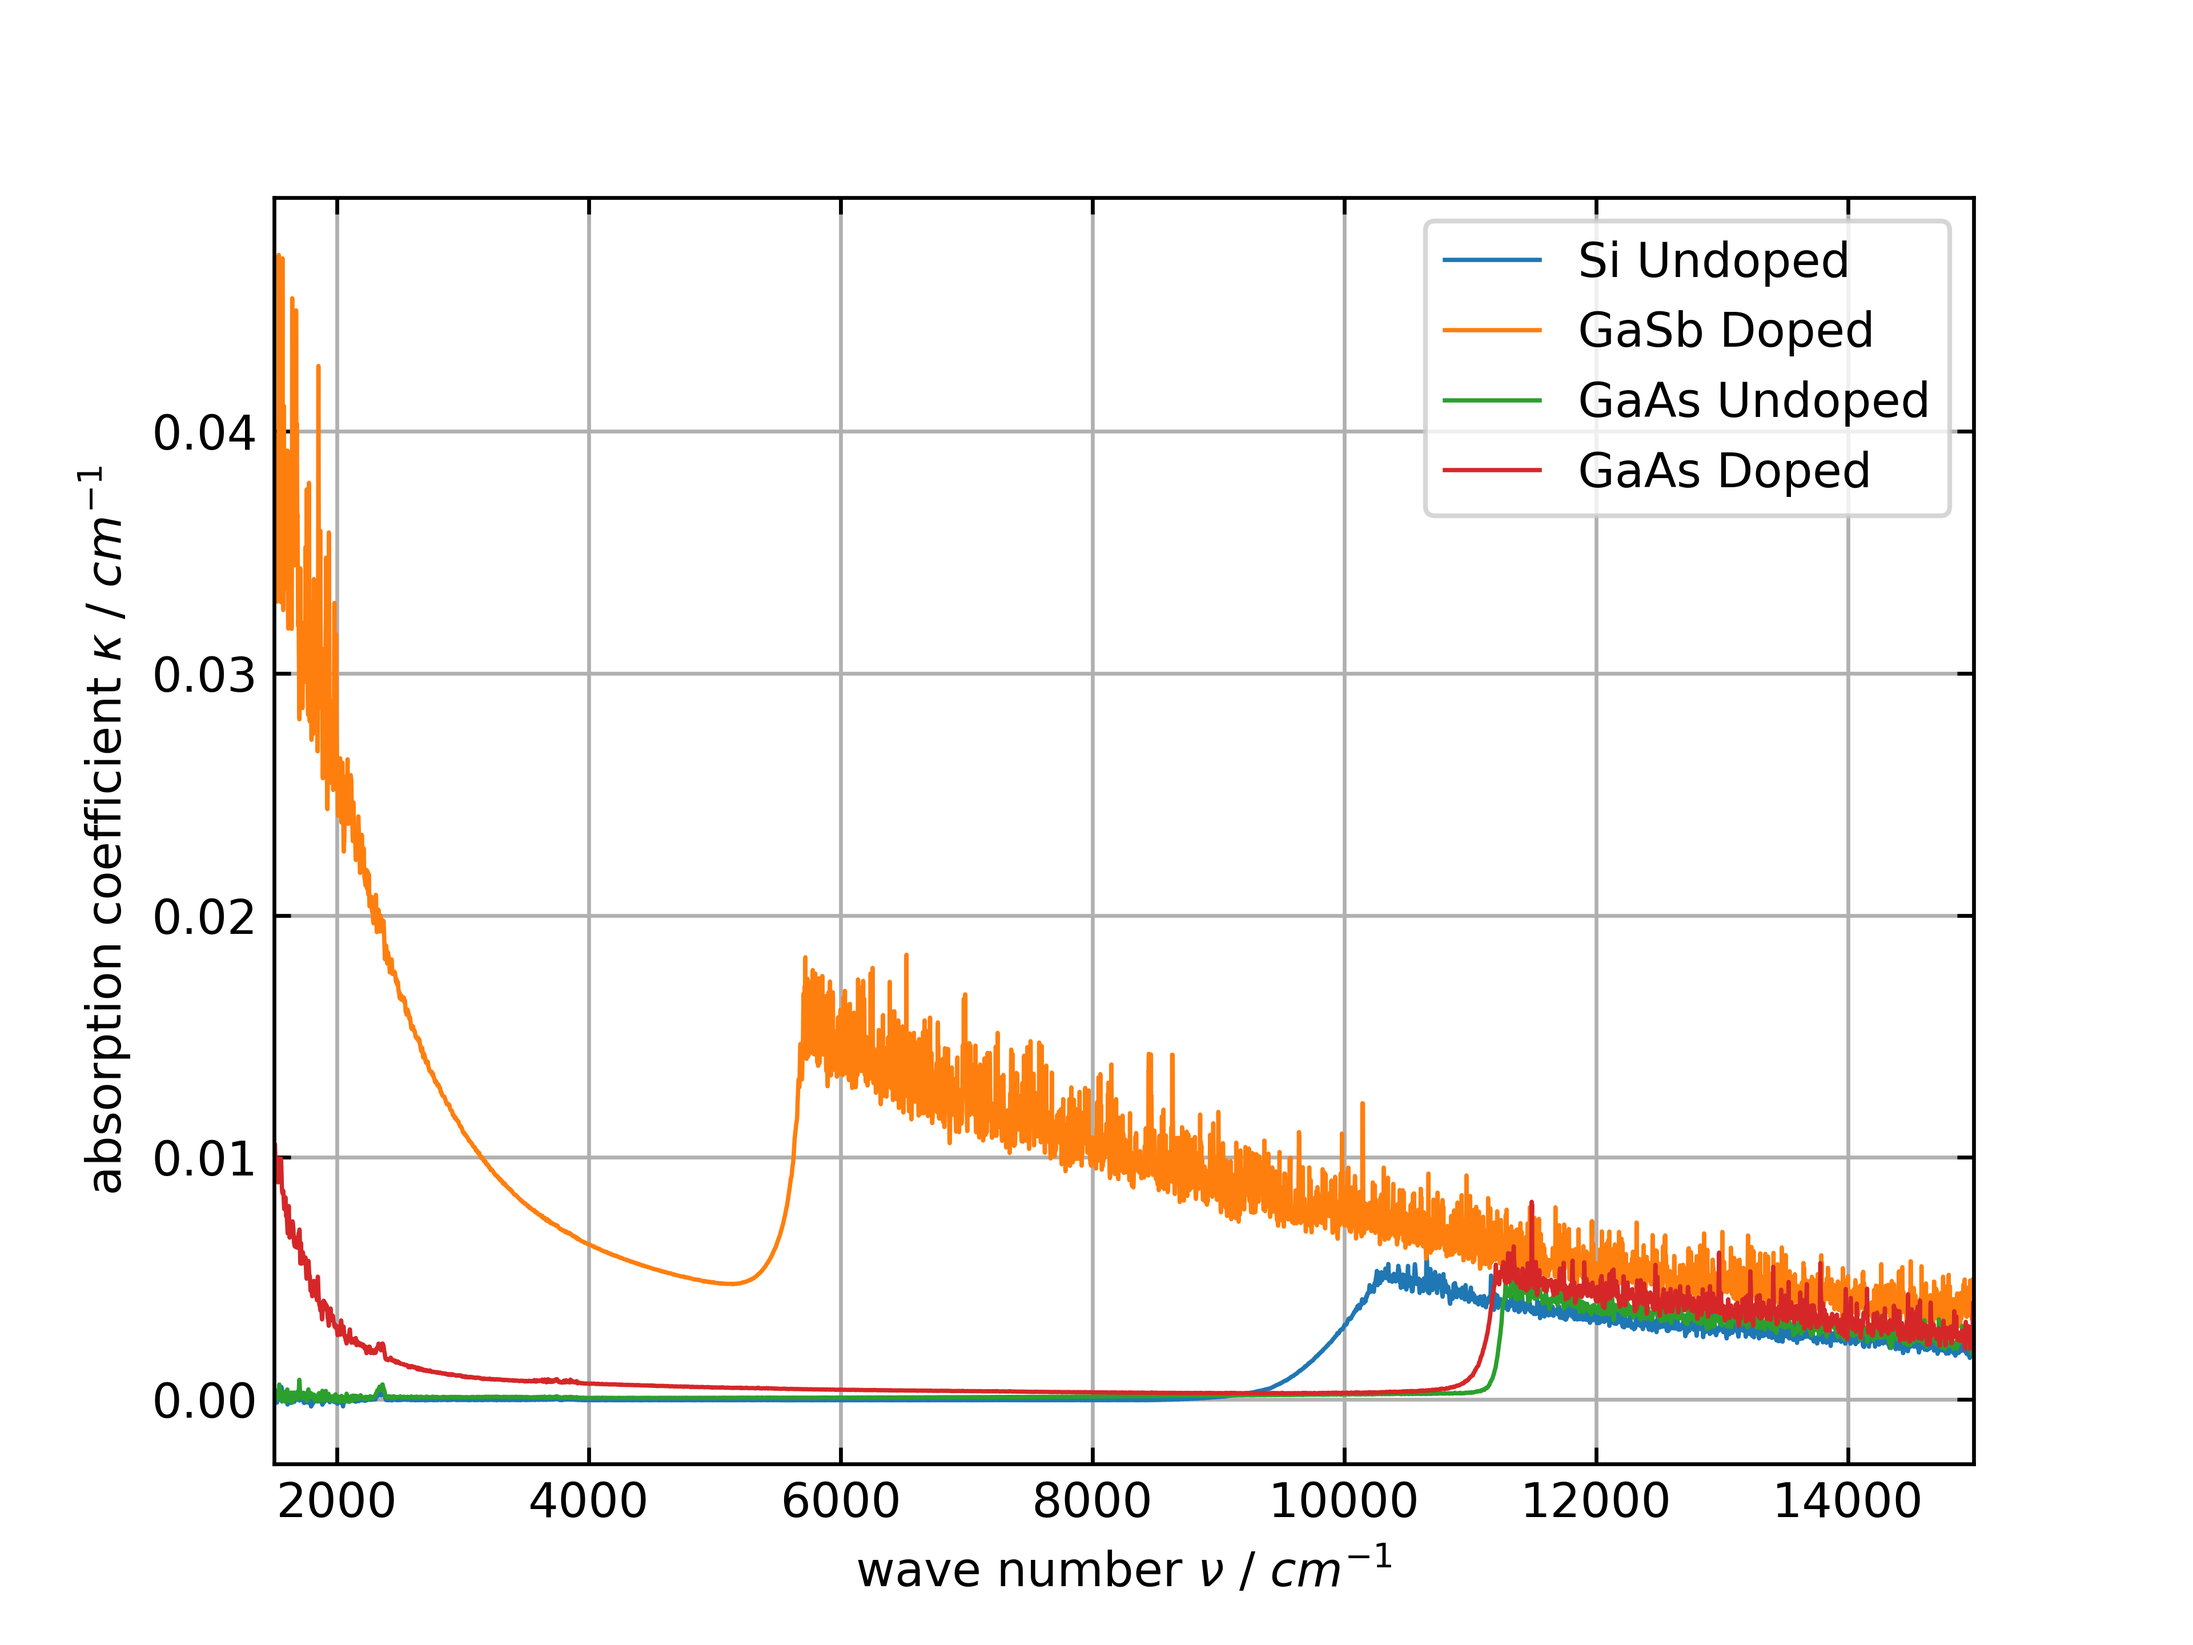
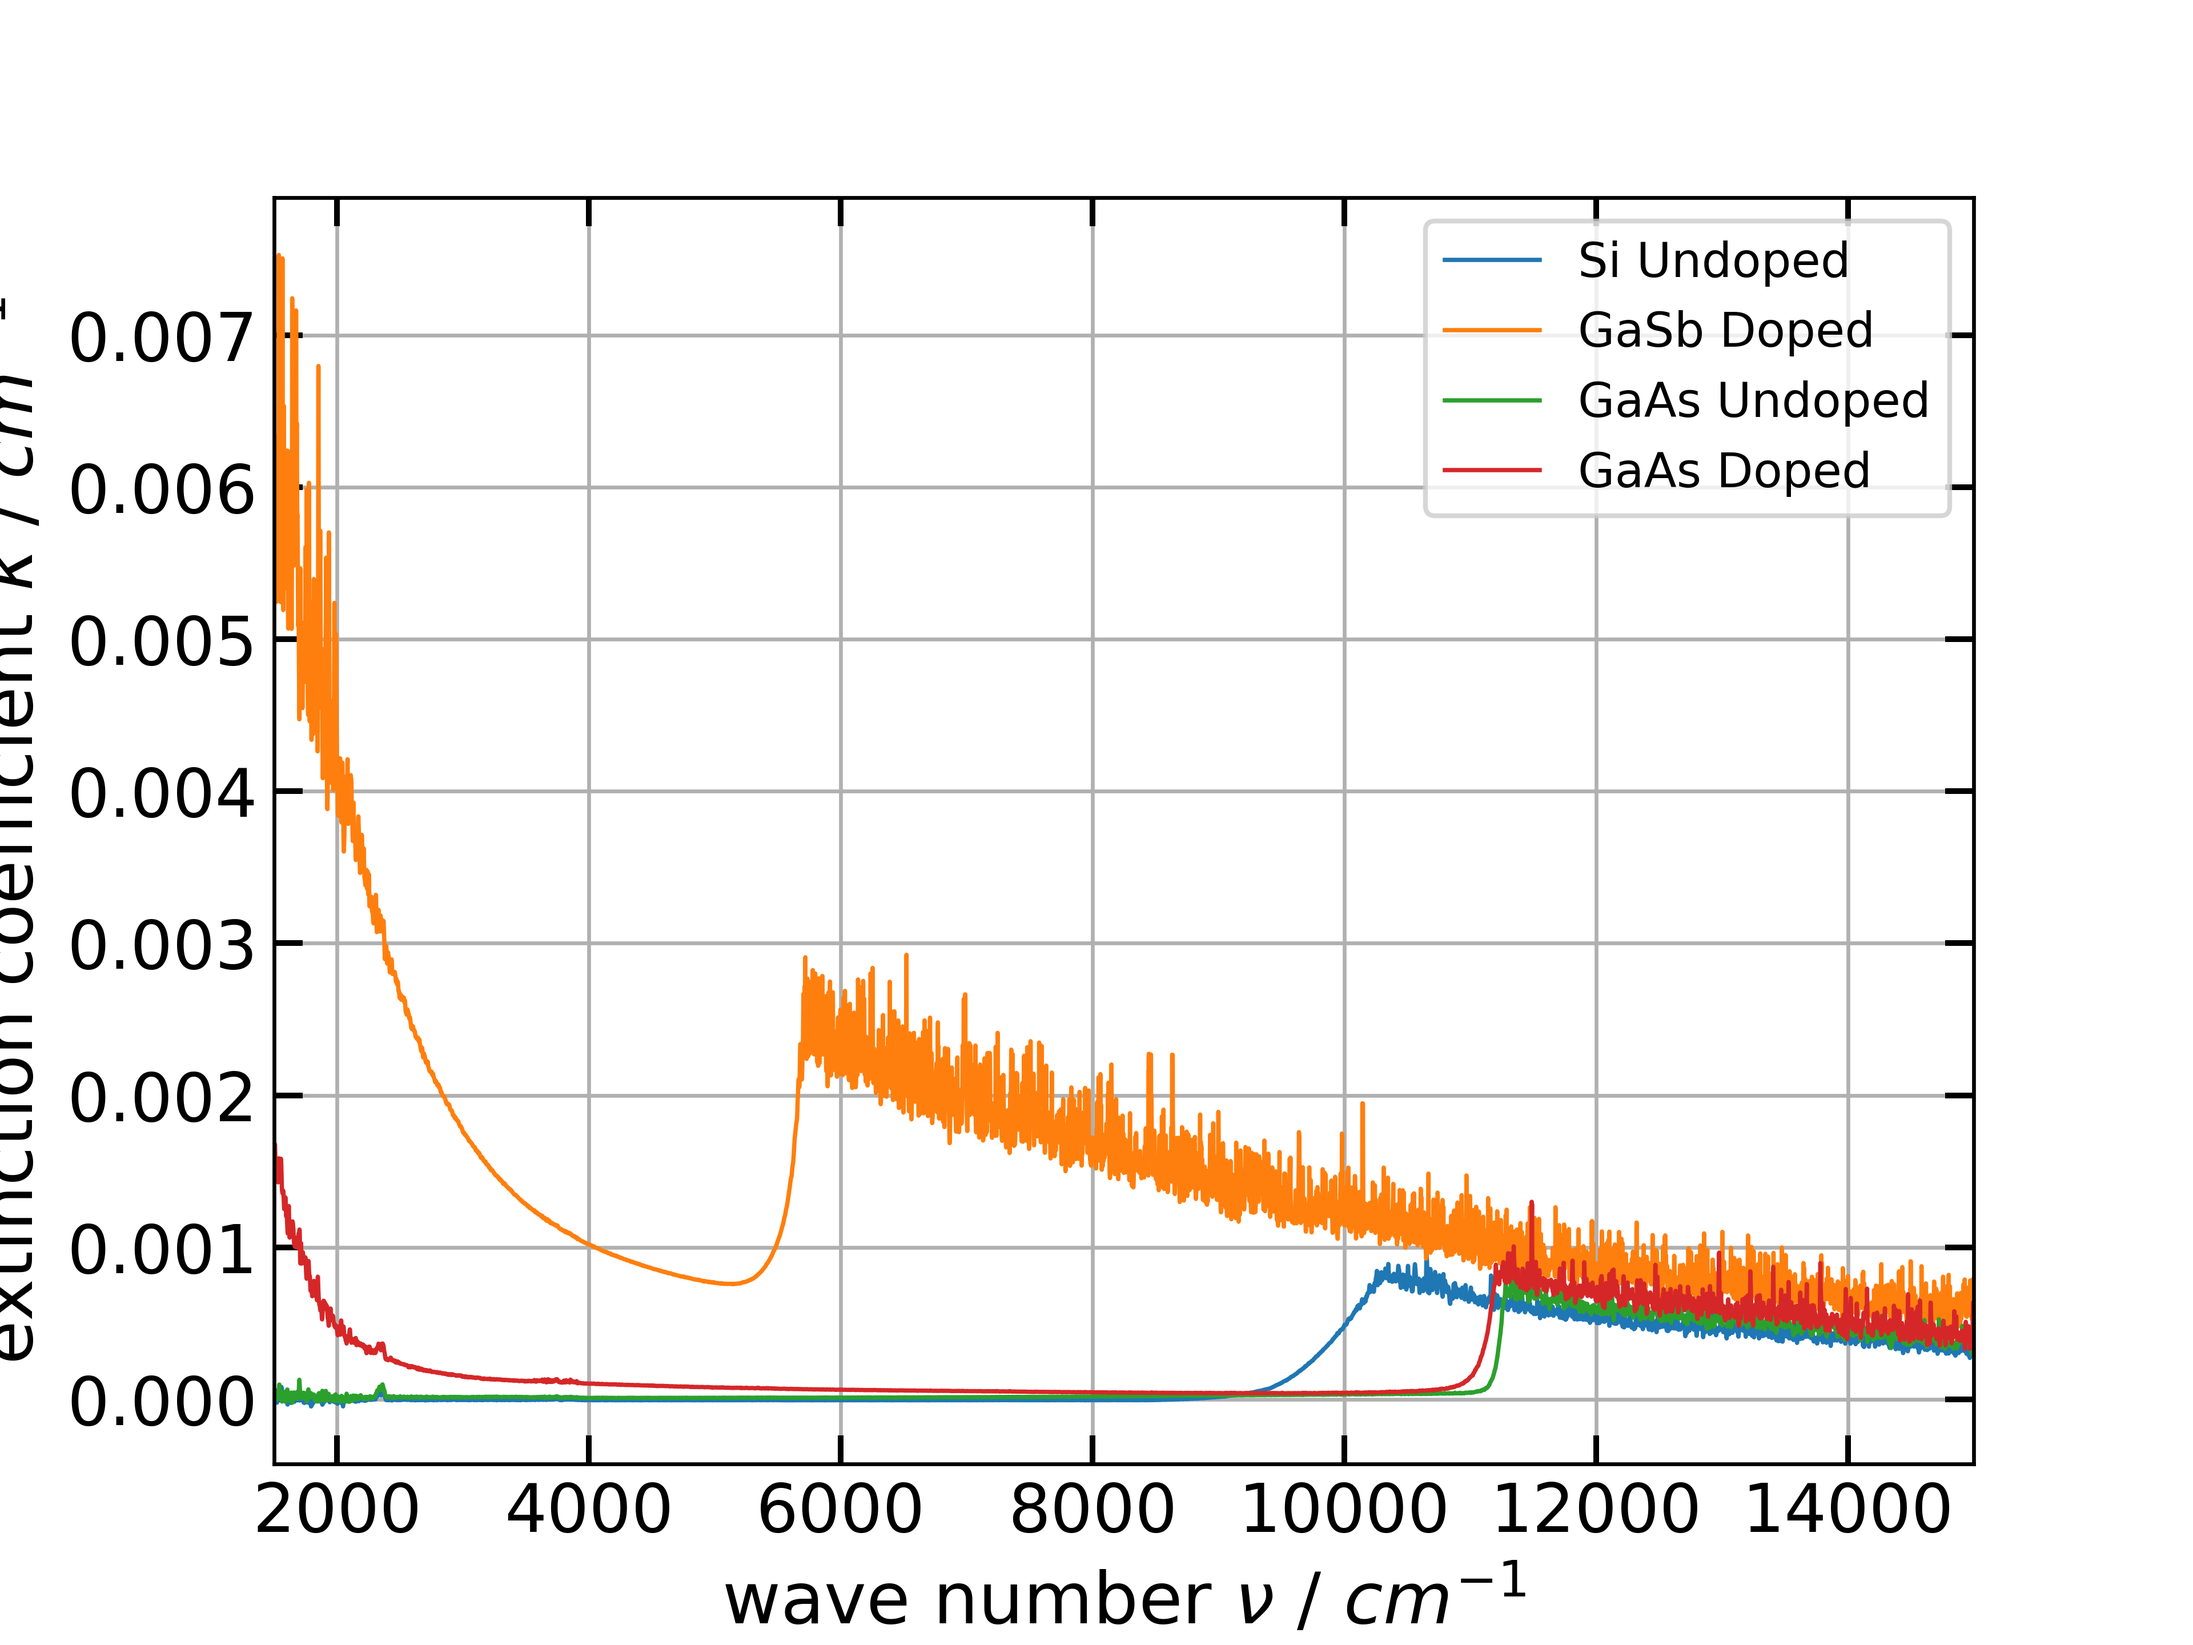
fehlersuche

diff --git a/SolidStateOptics/exp4.py b/SolidStateOptics/exp4.py
@@ -20,10 +20,12 @@ c= const.c  # Speed of light in m/s
 #moch willkürliche Werte
 mu_GaAs = 0.036872 * const.m_e  # Effective mass of electron in GaAs (müssen quelle finden!!)
 mu_GaSb = 0.0053207 * const.m_e
+mu_GaSb_Lukas = 0.037188208 * const.m_e
 m_e = const.m_e  # Electron mass in kg
 
-factor_GaAs = e**4*8/(epsilon_0**2*m_e**4*c**3*h**5) * mu_GaAs**3
-factor_GaAs = e**4*8/(epsilon_0**2*m_e**4*c**3*h**5) * mu_GaSb**3
+factor_GaAs = e**4*8/(epsilon_0**2*m_e**4*c**3*h**5) * mu_GaAs**3 * (2*np.pi*c)**4
+factor_GaAs_Altprot = e**2/(epsilon_0**m_e**2*h**5) * (2*mu_GaAs)**(3/2)
+factor_GaSb = e**4*8/(epsilon_0**2*m_e**4*c**3*h**5) * mu_GaSb**3 * (2*np.pi*c)**4
 
 
 
@@ -78,11 +80,11 @@ def calculate_nu_beta_and_R(ReflectionData, TransmissionData, d):
 
 
 def calculate_kappa(ReflectionData, TransmissionData, d):
-    k_beta_R_List = calculate_nu_beta_and_R(ReflectionData, TransmissionData, d)
-    k_kappa_R_List = []
-    for i in k_beta_R_List:
-        k_kappa_R_List.append([i[0], i[1]/(2*i[0]*100), i[2]]) # 100 wegen cm^-1
-    return k_kappa_R_List
+    nu_beta_R_List = calculate_nu_beta_and_R(ReflectionData, TransmissionData, d)
+    nu_kappa_R_List = []
+    for i in nu_beta_R_List:
+        nu_kappa_R_List.append([i[0], i[1]/(2*2*np.pi*i[0]*100), i[2]]) # 100 wegen cm^-1
+    return nu_kappa_R_List
 
 def calculate_k_n1_kappa(ReflectionData, TransmissionData, d):
     k_kappa_R_List = calculate_kappa(ReflectionData, TransmissionData, d)
@@ -133,7 +135,7 @@ def plot_the_kappas(title="foo", glättwert = 1):
         plt.ylabel('kappa')
 
     plt.xlabel(r'wave number $\nu$ / ' + r'$cm^{-1}$')
-    plt.ylabel(r'absorption coefficient $\kappa$ / ' + r'$cm^{-1}$')
+    plt.ylabel(r'extinction coefficient $\kappa$ / ' + r'$cm^{-1}$')
     plt.legend()
     save_and_open(filename=title)
      
@@ -156,7 +158,7 @@ def calculate_KomischeFunktion(reflection, transmission, d):
     
     komischeFunktion = []
     for nu, epsilon_2 in nu_epsilon_2:
-        komischeFunktion.append([nu, (epsilon_2*c**2*nu**2*4*np.pi**2/(100**2))**2])
+        komischeFunktion.append([nu, (epsilon_2*c**2*nu**2*4*np.pi**2*(100**2))**2])
     return komischeFunktion
 
 
@@ -187,24 +189,26 @@ def plotKomischeFunktion(reflection, transmission, k_min, k_max, k_min_regressio
         
     plot_data(k_chopper(komischeFunktion,k_min, k_max), label=title)
     
-    # Plot a vertical line at k_min_regression
     plt.axvline(x=k_min_regression, color='blue', linestyle='--', label='boundary for fit', linewidth=0.5)
     plt.legend()
     plt.axvline(x=k_max_regression, color='blue', linestyle='--', linewidth =0.5)
     
     
     steigKorr = steig/factor
-    steigKorr_fehler = steig_fehler/factor
+    #steigKorr_fehler = steig_fehler/factor
     pulseMatrixElement = steigKorr**(1/4)
-    sigma_steigKorr = steigKorr_fehler/steigKorr
-    pulseMatrixElement_fehler = sigma_steigKorr/4 * pulseMatrixElement**2/steigKorr
+    #sigma_steigKorr = steigKorr_fehler/steigKorr
+    #pulseMatrixElement_fehler = sigma_steigKorr/4 * pulseMatrixElement**2/steigKorr
     
     writeLatexMacro('bandgap_' + title.replace(' ','_'), x_intercept*100*c*hbar/e*2*np.pi, 'eV', x_intercept_fehler*100*c*hbar/e*2*np.pi)
     
-    writeLatexMacro('pulseMatrixElement_' + title.replace(' ','_'), pulseMatrixElement, '??', pulseMatrixElement_fehler)
+    writeLatexMacro('pulseMatrixElement_' + title.replace(' ','_'), pulseMatrixElement, '??')#, pulseMatrixElement_fehler)
     
-    plt.xlabel(r'wave number $\nu$ / ' + r'$cm^{-1}$')    
+    plt.xlabel(r'wave number $\nu$ / ' + r'$cm^{-1}$')   
+    plt.ylabel(r'($\epsilon ^{\prime \prime} \omega^2)^2\, / \, \left[\frac{A}{Vms}\right]^2$') 
     save_and_open(filename=title)
+    
+    
     
 def linear_regression(komischeFunktion):
     """
@@ -296,36 +300,26 @@ def plot_transmissions(glättwert=0.01):
     save_and_open("Low_Res_Transmissions")
 
 
-
-
-# beta_data = calculate_k_beta_and_R(reflectionSiUnDo, transmissionSiUnDo, samplesOhneSiUn[0][3])
-# beta_plot = [[point[0], point[1] / 100 + 1] for point in beta_data]  # Convert beta to cm^-1
-# plt.figure()
-# plot_data(beta_plot, label="Si Undoped")
-# plt.xlabel(r'wave number $\nu$ / ' + r'$cm^{-1}$')
-# plt.ylabel(r'absorption coefficient $\beta$ / ' + r'$cm^{-1}$')
-# plt.legend()
-# save_and_open(filename="SiUnDo_beta_plot")
-
-
 #plotKomischeIndirectFunction(reflectionSiUnDo, transmissionSiUnDo, d=530*10**-6, k_min=7500, k_max=11000,
 #                              k1_min_regression=8450, k1_max_regression=9100, k2_min_regression=9450, k2_max_regression=10200,
 #                              glättwert=0.01, title="Si_Undoped")
 
 
-# plot_the_kappas(glättwert=0.9, title="kappa")
+#plot_the_kappas(glättwert=0.9, title="kappa")
 
-# plot_the_betas(title="betas", glättwert=0.9)
+#plot_the_betas(title="betas", glättwert=0.9)
 
-# plot_the_ns(0.005)
+#plot_the_ns(0.005)
 
 #Die macht keinen Sinn, ist indirekt!! plotKomischeFunktion(reflectionSiUnDo, transmissionSiUnDo, 9000, 11000, 10050, 10250, samplesOhneSiUn[0][3], glättwert=0.1, title="Si Undoped")
-#plotKomischeFunktion(reflectionGaSbDo, transmissionGaSbDo, 5000, 6000, 5600, 5680, samplesOhneSiUn[1][3], factor_GaAs ,glättwert=0.1, title="GaSb Doped")
-#plotKomischeFunktion(reflectionGaAsUnDo, transmissionGaAsUnDo, 11000, 11400, 11230, 11280, samplesOhneSiUn[2][3], glättwert=0.1, title="GaAs Undoped")
-#plotKomischeFunktion(reflectionGaAsDo, transmissionGaAsDo, 10500, 12000, 11120, 11200, samplesOhneSiUn[3][3], glättwert=0.03, title="GaAs Doped")
+#plotKomischeFunktion(reflectionGaSbDo, transmissionGaSbDo, 5000, 6000, 5600, 5680, samplesOhneSiUn[1][3], factor_GaSb ,glättwert=0.1, title="GaSb Doped")
+plotKomischeFunktion(reflectionGaAsUnDo, transmissionGaAsUnDo, 11000, 11400, 11230, 11280, samplesOhneSiUn[2][3], factor_GaAs, glättwert=0.1, title="GaAs Undoped")
+#plotKomischeFunktion(reflectionGaAsDo, transmissionGaAsDo, 10500, 12000, 11120, 11200, samplesOhneSiUn[3][3],factor_GaAs, glättwert=0.03, title="GaAs Doped")
 
 
-plot_reflections(glättwert=0.02)
-plot_transmissions(glättwert=1)
+#plot_reflections(glättwert=0.02)
+#plot_transmissions(glättwert=1)
+
+
 
 

diff --git a/Paper/macros.tex b/Paper/macros.tex
@@ -6,3 +6,9 @@
 \newcommand{\bandgapGaAsDoped}{\left(1.373\right \cdot 10^{0} \,\text{eV})}
 \newcommand{\bandgapGaSbDoped}{\left(6.891 \pm 0.014\right \cdot 10^{-1} \,\text{eV})}
 \newcommand{\stn}{\left(4.967\,\text{0.025032386348464462}\right) \cdot 10^{-1}}
+\newcommand{\bandgap_Si_Undoped}{\left(1.066\,\text{eV}\right) \cdot 10^{0}}
+\newcommand{\hquerOMEGA_Si_Undoped}{\left(5.200\,\text{eV}\right) \cdot 10^{-2}}
+\newcommand{\bandgap_GaSb_Doped}{\left(6.891 \pm 0.014\,\text{eV}\right) \cdot 10^{-1}}
+\newcommand{\bandgap_GaAs_Doped}{\left(1.37282 \pm 0.00066\,\text{eV}\right) \cdot 10^{0}}
+\newcommand{\bandgap_GaAs_Undoped}{\left(1.3892 \pm 0.0017\,\text{eV}\right) \cdot 10^{0}}
+\newcommand{\pulseMatrixElement_GaAs_Undoped}{\left(3.792\,\text{??}\right) \cdot 10^{-24}}
